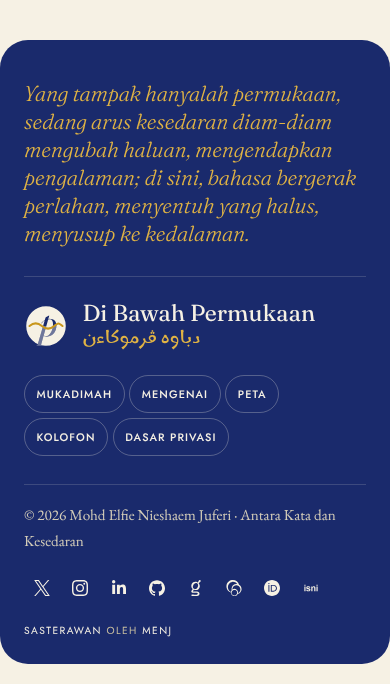
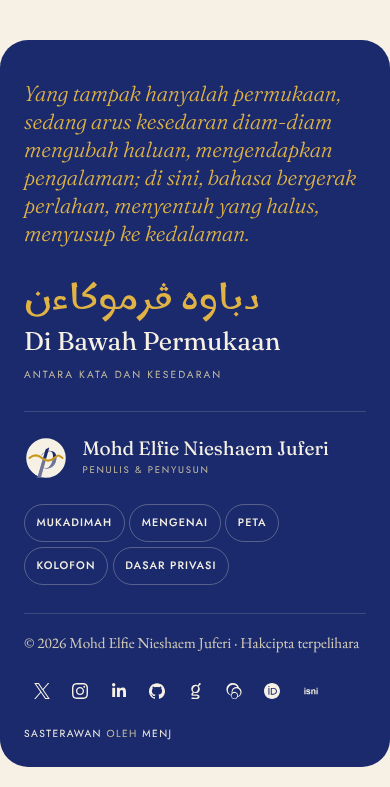
Footer: identity block beside the sign-off, author lockup row
Right column carries the Jawi name, anthology title and tagline; the
lockup row now names the author with role; copyright drops the tagline.

Claude-Session: https://claude.ai/code/session_01Er8Hpy67qX5wHknT6MnoT1

diff --git a/assets/css/frontend.css b/assets/css/frontend.css
@@ -911,8 +911,13 @@ body.bwp-archive-masonry .bwp-archive-list__item { width: 49%; margin-bottom: .7
     display: flex; flex-direction: column; align-items: stretch; gap: 2.25rem;
 }
 
-/* 1 · sign-off */
+/* 1 · sign-off | identity */
+.bwp-site-footer__top { display: grid; grid-template-columns: minmax(0, 7fr) minmax(0, 5fr); gap: 2rem 3rem; align-items: end; }
 .bwp-site-footer__sign { display: flex; flex-direction: column; gap: .7rem; max-width: 38em; }
+.bwp-site-footer__identity { display: flex; flex-direction: column; align-items: flex-end; text-align: right; gap: .2rem; }
+.bwp-site-footer__identity .bwp-site-footer__jawi { font-size: clamp(2.2rem, 3.4vw, 3rem); line-height: 1.2; margin: 0 0 .2rem; text-align: right; }
+.bwp-site-footer__identity .bwp-site-footer__anthology { font-size: clamp(1.6rem, 2.4vw, 2.2rem); line-height: 1; }
+.bwp-site-footer__tagline { font-family: var(--bwp-font-ui); font-size: .64rem; letter-spacing: .2em; text-transform: uppercase; color: var(--f-dim); margin-top: .5rem; }
 .bwp-site-footer__lead {
     margin: 0;
     font-family: var(--bwp-font-display); font-style: italic; font-weight: 300;
@@ -927,6 +932,8 @@ body.bwp-archive-masonry .bwp-archive-list__item { width: 49%; margin-bottom: .7
     padding-top: 2rem; border-top: 1px solid var(--f-line);
 }
 .bwp-site-footer__lockup { display: inline-flex; align-items: center; gap: .9rem; }
+.bwp-site-footer__author { font-family: var(--bwp-font-display); font-size: 1.2rem; line-height: 1.05; }
+.bwp-site-footer__role { font-family: var(--bwp-font-ui); font-size: .6rem; letter-spacing: .18em; text-transform: uppercase; color: var(--f-dim); margin-top: .25rem; }
 .bwp-site-footer__mark { width: 44px; height: 44px; flex: none; border-radius: var(--bwp-pill); }
 .bwp-site-footer__names { display: flex; flex-direction: column; }
 .bwp-site-footer__anthology { font-family: var(--bwp-font-display); font-size: 1.45rem; line-height: 1; }
@@ -970,6 +977,9 @@ body.bwp-archive-masonry .bwp-archive-list__item { width: 49%; margin-bottom: .7
     .bwp-site-footer { padding-top: 2.5rem; }
     .bwp-site-footer__inner { gap: 1.75rem; }
     .bwp-site-footer__row { padding-top: 1.5rem; }
+    .bwp-site-footer__top { grid-template-columns: 1fr; }
+    .bwp-site-footer__identity { align-items: flex-start; text-align: left; }
+    .bwp-site-footer__identity .bwp-site-footer__jawi { text-align: left; }
     .bwp-site-footer__bottom { grid-template-columns: 1fr; }
     .bwp-site-footer__credit { text-align: left; }
     .bwp-social { justify-content: flex-start; }

diff --git a/footer.php b/footer.php
@@ -35,29 +35,39 @@ $bwp_tagline   = get_bloginfo( 'description' );
     <footer class="bwp-site-footer" role="contentinfo">
         <div class="bwp-site-footer__inner">
 
-            <?php if ( $bwp_quote ) : ?>
-            <div class="bwp-site-footer__sign">
-                <p class="bwp-site-footer__lead"><?php echo esc_html( $bwp_quote ); ?></p>
-                <?php if ( $bwp_quote_sub ) : ?>
-                <p class="bwp-site-footer__sub"><?php echo esc_html( $bwp_quote_sub ); ?></p>
+            <div class="bwp-site-footer__top">
+                <?php if ( $bwp_quote ) : ?>
+                <div class="bwp-site-footer__sign">
+                    <p class="bwp-site-footer__lead"><?php echo esc_html( $bwp_quote ); ?></p>
+                    <?php if ( $bwp_quote_sub ) : ?>
+                    <p class="bwp-site-footer__sub"><?php echo esc_html( $bwp_quote_sub ); ?></p>
+                    <?php endif; ?>
+                </div>
                 <?php endif; ?>
+
+                <div class="bwp-site-footer__identity">
+                    <?php if ( $bwp_jawi ) : ?>
+                    <span class="bwp-site-footer__jawi" dir="rtl" lang="ms-Arab"><?php echo esc_html( $bwp_jawi ); ?></span>
+                    <?php endif; ?>
+                    <a class="bwp-site-footer__anthology" href="<?php echo esc_url( home_url( '/' ) ); ?>" rel="home"><?php echo esc_html( $bwp_anthology ); ?></a>
+                    <?php if ( $bwp_tagline ) : ?>
+                    <span class="bwp-site-footer__tagline"><?php echo esc_html( $bwp_tagline ); ?></span>
+                    <?php endif; ?>
+                </div>
             </div>
-            <?php endif; ?>
 
             <div class="bwp-site-footer__row">
-                <a class="bwp-site-footer__lockup" href="<?php echo esc_url( home_url( '/' ) ); ?>" rel="home">
+                <div class="bwp-site-footer__lockup">
                     <?php if ( has_custom_logo() ) : ?>
                         <?php echo wp_get_attachment_image( get_theme_mod( 'custom_logo' ), 'thumbnail', false, array( 'class' => 'bwp-site-footer__mark', 'alt' => '' ) ); ?>
                     <?php else : ?>
                         <img class="bwp-site-footer__mark" src="<?php echo esc_url( BOOK_WP_URI . '/assets/img/brand/mark.svg' ); ?>" alt="" width="44" height="44" loading="lazy" decoding="async">
                     <?php endif; ?>
                     <span class="bwp-site-footer__names">
-                        <span class="bwp-site-footer__anthology"><?php echo esc_html( $bwp_anthology ); ?></span>
-                        <?php if ( $bwp_jawi ) : ?>
-                        <span class="bwp-site-footer__jawi" dir="rtl" lang="ms-Arab"><?php echo esc_html( $bwp_jawi ); ?></span>
-                        <?php endif; ?>
+                        <span class="bwp-site-footer__author"><?php echo esc_html( $bwp_author ); ?></span>
+                        <span class="bwp-site-footer__role"><?php esc_html_e( 'Penulis & penyusun', 'book-wp' ); ?></span>
                     </span>
-                </a>
+                </div>
 
                 <?php if ( has_nav_menu( 'footer' ) ) : ?>
                 <nav class="bwp-footer-nav" aria-label="<?php esc_attr_e( 'Footer Menu', 'book-wp' ); ?>">
@@ -77,7 +87,7 @@ $bwp_tagline   = get_bloginfo( 'description' );
                     <?php if ( ! empty( $bwp_copyright ) && '1' === get_option( 'book_wp_show_copyright', '1' ) ) : ?>
                         <?php echo wp_kses_post( $bwp_copyright ); ?>
                     <?php else : ?>
-                        &copy; <?php echo esc_html( gmdate( 'Y' ) . ' ' . $bwp_author ); ?><?php if ( $bwp_tagline ) echo ' &middot; ' . esc_html( $bwp_tagline ); ?>
+                        &copy; <?php echo esc_html( gmdate( 'Y' ) . ' ' . $bwp_author ); ?> &middot; <?php esc_html_e( 'Hakcipta terpelihara', 'book-wp' ); ?>
                     <?php endif; ?>
                 </p>
 
